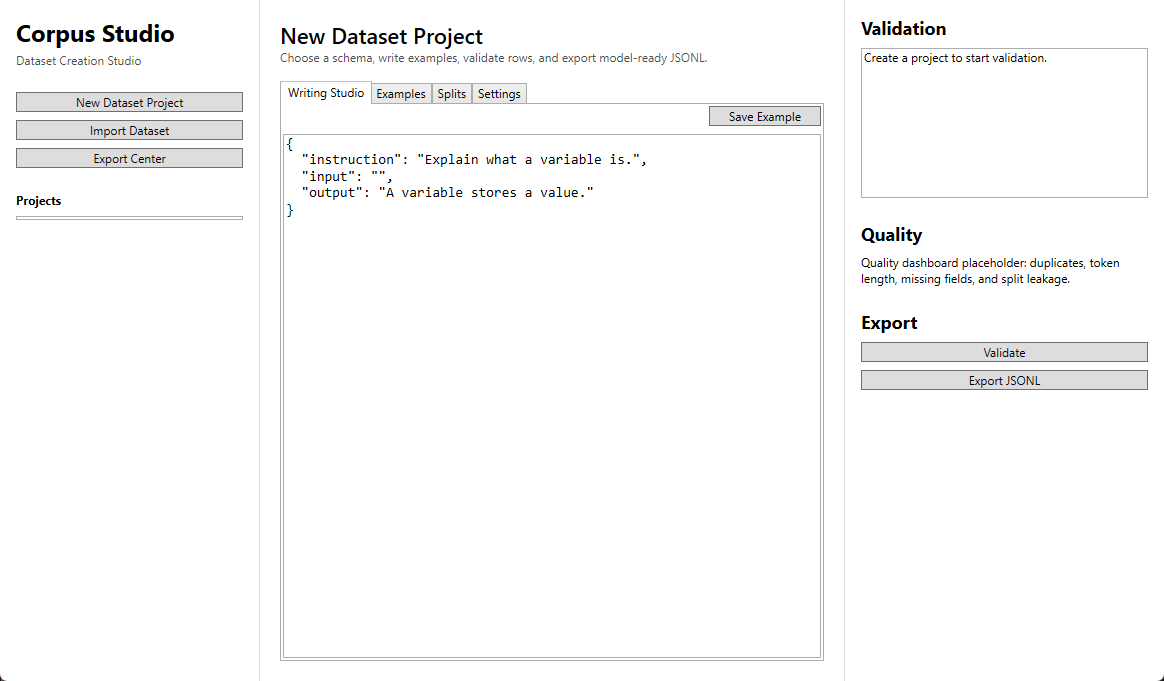
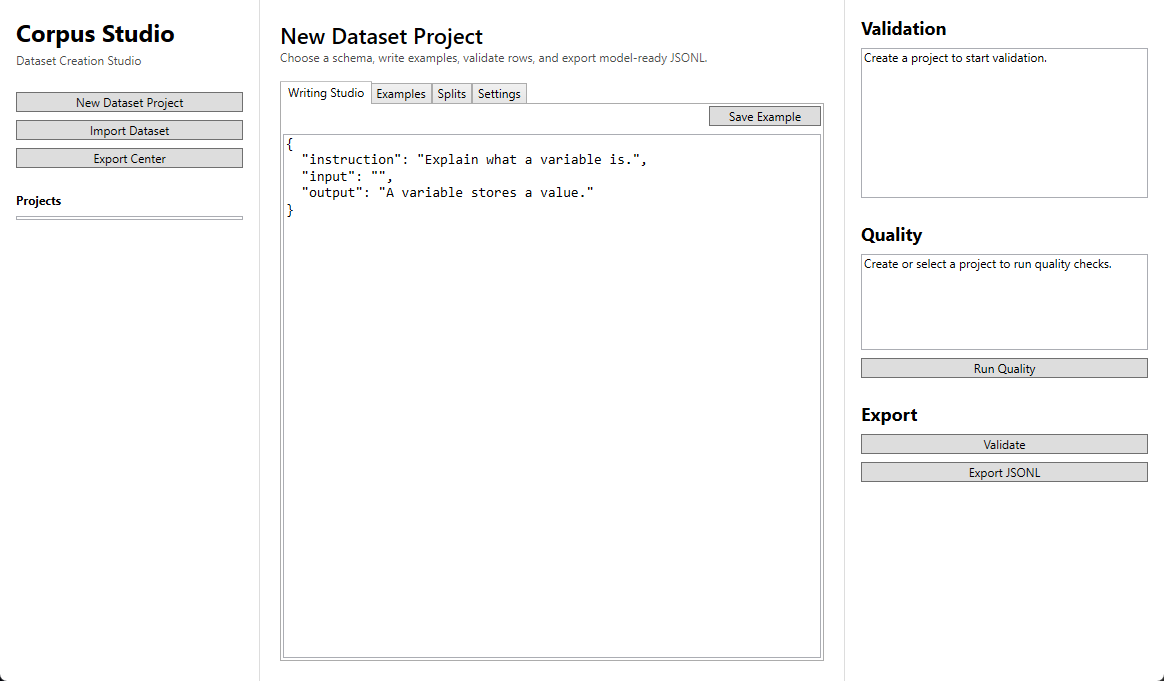
Wire desktop quality checks

Changed region(s): [[0.7423, 0.4626, 0.9897, 0.7093], [0.7423, 0.37, 0.9588, 0.4317]]

diff --git a/apps/desktop/CorpusStudio.Desktop/Views/MainWindow.xaml b/apps/desktop/CorpusStudio.Desktop/Views/MainWindow.xaml
@@ -129,7 +129,17 @@
                          VerticalScrollBarVisibility="Auto" />
 
                 <TextBlock Text="Quality" FontSize="18" FontWeight="Bold" />
-                <TextBlock Text="{Binding QualitySummary}" Margin="0,8,0,24" TextWrapping="Wrap" />
+                <TextBox AutomationProperties.AutomationId="QualitySummaryTextBox"
+                         Text="{Binding QualitySummary, Mode=OneWay}"
+                         Margin="0,8,0,8"
+                         MinHeight="96"
+                         IsReadOnly="True"
+                         TextWrapping="Wrap"
+                         VerticalScrollBarVisibility="Auto" />
+                <Button AutomationProperties.AutomationId="RunQualityButton"
+                        Content="Run Quality"
+                        Margin="0,0,0,24"
+                        Click="RunQualityButton_Click" />
 
                 <TextBlock Text="Export" FontSize="18" FontWeight="Bold" />
                 <Button AutomationProperties.AutomationId="ValidateButton"

diff --git a/apps/desktop/CorpusStudio.Desktop/Views/MainWindow.xaml.cs b/apps/desktop/CorpusStudio.Desktop/Views/MainWindow.xaml.cs
@@ -19,7 +19,7 @@ public partial class MainWindow : Window
 
     private MainWindowViewModel ViewModel => (MainWindowViewModel)DataContext;
 
-    private void MainWindow_Loaded(object sender, RoutedEventArgs e)
+    private async void MainWindow_Loaded(object sender, RoutedEventArgs e)
     {
         var projects = _engineService.LoadProjects();
         ViewModel.SetProjects(projects);
@@ -28,7 +28,7 @@ public partial class MainWindow : Window
         var firstProject = projects.FirstOrDefault();
         if (firstProject is not null)
         {
-            LoadProject(firstProject);
+            await LoadProjectAsync(firstProject);
         }
     }
 
@@ -62,6 +62,7 @@ public partial class MainWindow : Window
                 createdPath
             );
             ViewModel.SetExamples(_engineService.LoadExamples(createdPath));
+            await RefreshQualityAsync();
 
             MessageBox.Show(
                 this,
@@ -146,6 +147,7 @@ public partial class MainWindow : Window
             );
 
             ViewModel.SetExamples(_engineService.LoadExamples(ViewModel.ActiveProjectPath));
+            await RefreshQualityAsync();
             MessageBox.Show(
                 this,
                 $"Saved {savedCount} example(s).",
@@ -162,6 +164,11 @@ public partial class MainWindow : Window
         {
             Mouse.OverrideCursor = null;
         }
+    }
+
+    private async void RunQualityButton_Click(object sender, RoutedEventArgs e)
+    {
+        await RefreshQualityAsync();
     }
 
     private async void ExportJsonlButton_Click(object sender, RoutedEventArgs e)
@@ -204,17 +211,43 @@ public partial class MainWindow : Window
         }
     }
 
-    private void ProjectsListBox_SelectionChanged(object sender, System.Windows.Controls.SelectionChangedEventArgs e)
+    private async void ProjectsListBox_SelectionChanged(object sender, System.Windows.Controls.SelectionChangedEventArgs e)
     {
         if (ViewModel.SelectedProject is not null)
         {
-            LoadProject(ViewModel.SelectedProject);
+            await LoadProjectAsync(ViewModel.SelectedProject);
         }
     }
 
-    private void LoadProject(DatasetProjectListItem project)
+    private async Task LoadProjectAsync(DatasetProjectListItem project)
     {
         ViewModel.SelectProject(project);
         ViewModel.SetExamples(_engineService.LoadExamples(project.ProjectPath));
+        await RefreshQualityAsync();
+    }
+
+    private async Task RefreshQualityAsync()
+    {
+        if (!ViewModel.HasActiveProject || string.IsNullOrWhiteSpace(ViewModel.ActiveProjectPath))
+        {
+            ViewModel.SetQualityError("Create or select a dataset project before running quality checks.");
+            return;
+        }
+
+        try
+        {
+            Mouse.OverrideCursor = Cursors.Wait;
+            ViewModel.SetQualityInProgress();
+            var report = await _engineService.BuildQualityReportAsync(ViewModel.ActiveProjectPath);
+            ViewModel.ApplyQualityReport(report);
+        }
+        catch (Exception ex)
+        {
+            ViewModel.SetQualityError(ex.Message);
+        }
+        finally
+        {
+            Mouse.OverrideCursor = null;
+        }
     }
 }

diff --git a/apps/desktop/CorpusStudio.Desktop/ViewModels/MainWindowViewModel.cs b/apps/desktop/CorpusStudio.Desktop/ViewModels/MainWindowViewModel.cs
@@ -14,8 +14,7 @@ public sealed class MainWindowViewModel : INotifyPropertyChanged
     private string _activeSchemaDescription =
         "Choose a schema, write examples, validate rows, and export model-ready JSONL.";
     private string _validationSummary = "Create a project to start validation.";
-    private string _qualitySummary =
-        "Quality dashboard placeholder: duplicates, token length, missing fields, and split leakage.";
+    private string _qualitySummary = "Create or select a project to run quality checks.";
     private string _settingsSummary = "Settings load when the app starts.";
     private DatasetProjectListItem? _selectedProject;
     private SavedExampleItem? _selectedExample;
@@ -180,8 +179,35 @@ public sealed class MainWindowViewModel : INotifyPropertyChanged
         SelectedExampleJson = SelectedExample?.Json
             ?? "No saved examples yet. Save a valid draft from Writing Studio.";
         QualitySummary = Examples.Count == 0
-            ? "No saved examples yet. Quality checks will appear after examples are added."
-            : $"{Examples.Count} saved example(s). Quality checks will appear here next.";
+            ? "No saved examples yet. Quality checks will run after examples are added."
+            : $"{Examples.Count} saved example(s). Run quality checks to inspect duplicates and empty rows.";
+    }
+
+    public void SetQualityInProgress()
+    {
+        QualitySummary = "Running quality checks...";
+    }
+
+    public void ApplyQualityReport(QualityReport report)
+    {
+        var health = report.EmptyRowCount == 0 && report.DuplicateExactCount == 0
+            ? "No basic quality issues found."
+            : "Review the flagged rows before export.";
+
+        QualitySummary = string.Join(
+            Environment.NewLine,
+            [
+                $"Examples: {report.ExampleCount}",
+                $"Empty rows: {report.EmptyRowCount}",
+                $"Exact duplicates: {report.DuplicateExactCount}",
+                $"Status: {health}",
+            ]
+        );
+    }
+
+    public void SetQualityError(string message)
+    {
+        QualitySummary = $"Quality checks could not run.{Environment.NewLine}{message}";
     }
 
     public void SetValidationInProgress()

diff --git a/apps/desktop/CorpusStudio.Desktop/Models/QualityReport.cs b/apps/desktop/CorpusStudio.Desktop/Models/QualityReport.cs
@@ -1,0 +1,15 @@
+using System.Text.Json.Serialization;
+
+namespace CorpusStudio.Desktop.Models;
+
+public sealed class QualityReport
+{
+    [JsonPropertyName("example_count")]
+    public int ExampleCount { get; init; }
+
+    [JsonPropertyName("empty_row_count")]
+    public int EmptyRowCount { get; init; }
+
+    [JsonPropertyName("duplicate_exact_count")]
+    public int DuplicateExactCount { get; init; }
+}

diff --git a/apps/desktop/CorpusStudio.Desktop/Services/PythonEngineService.cs b/apps/desktop/CorpusStudio.Desktop/Services/PythonEngineService.cs
@@ -116,6 +116,19 @@ public sealed class PythonEngineService
         return RunEngineCommandAsync("validate", datasetPath, schemaId);
     }
 
+    public async Task<QualityReport> BuildQualityReportAsync(string projectPath)
+    {
+        var examplesPath = Path.Combine(projectPath, "examples.jsonl");
+        if (!File.Exists(examplesPath))
+        {
+            throw new FileNotFoundException("Project examples file was not found.", examplesPath);
+        }
+
+        var output = await RunEngineCommandAsync("quality", examplesPath);
+        return JsonSerializer.Deserialize<QualityReport>(output, JsonOptions)
+            ?? throw new InvalidOperationException("The Python engine returned an invalid quality report.");
+    }
+
     public async Task<ValidationReport> ValidateDraftAsync(string draftText, string schemaId)
     {
         var tempPath = WriteDraftToTempJsonl(draftText);

diff --git a/docs/PRODUCT_SPEC.md b/docs/PRODUCT_SPEC.md
@@ -88,10 +88,11 @@ The current app proves the smallest local dataset-authoring loop:
 4. Edit the generated JSON example in Writing Studio.
 5. Validate the draft through the Python engine.
 6. Save the example to the active project's `examples.jsonl`.
-7. Inspect saved example details from the Examples tab.
-8. Reopen an existing project from the project list.
-9. Export validated JSONL to `exports/<project_id>/export.jsonl`.
-10. Inspect local repository, engine, Python, project, and export paths from Settings.
+7. Run basic quality checks against the active project's saved examples.
+8. Inspect saved example details from the Examples tab.
+9. Reopen an existing project from the project list.
+10. Export validated JSONL to `exports/<project_id>/export.jsonl`.
+11. Inspect local repository, engine, Python, project, and export paths from Settings.
 
 The Python engine also exposes schema listing, validation, project creation, quality reporting, splitting, and export commands for developer workflows.
 
@@ -100,7 +101,8 @@ The Python engine also exposes schema listing, validation, project creation, qua
 - Project data is file-backed JSON and JSONL.
 - The desktop app writes one JSON object per saved example.
 - Validation currently enforces JSON validity plus required non-empty fields.
-- The Quality and Splits desktop tabs are placeholders for future richer workflows.
+- Quality checks currently report example count, empty rows, and exact duplicates.
+- The Splits desktop tab is a placeholder for a future richer workflow.
 - SQLite remains planned for durable project state beyond the v0.1 file-backed loop.
 
 ## Product principles

diff --git a/docs/DEVELOPMENT_SETUP.md b/docs/DEVELOPMENT_SETUP.md
@@ -77,8 +77,9 @@ Use this checklist after a build:
 5. In **Writing Studio**, keep or edit the generated JSON example.
 6. Click **Validate** and confirm the validation panel reports a valid row.
 7. Click **Save Example** and confirm the row is appended to the active project.
-8. Click **Export JSONL** and confirm an export appears under `exports/<project_id>/export.jsonl`.
-9. Open **Settings** and confirm the repository, engine, Python, project, and export paths point to this checkout.
+8. Click **Run Quality** and confirm the quality panel reports the saved example count.
+9. Click **Export JSONL** and confirm an export appears under `exports/<project_id>/export.jsonl`.
+10. Open **Settings** and confirm the repository, engine, Python, project, and export paths point to this checkout.
 
 Or run the automated Windows desktop smoke test:
 

diff --git a/MANIFEST.md b/MANIFEST.md
@@ -19,7 +19,10 @@ Generated file list for the Corpus Studio MIT project skeleton.
 - `apps/desktop/CorpusStudio.Desktop/App.xaml.cs`
 - `apps/desktop/CorpusStudio.Desktop/CorpusStudio.Desktop.csproj`
 - `apps/desktop/CorpusStudio.Desktop/Models/DatasetProject.cs`
+- `apps/desktop/CorpusStudio.Desktop/Models/DatasetProjectListItem.cs`
 - `apps/desktop/CorpusStudio.Desktop/Models/DatasetSchema.cs`
+- `apps/desktop/CorpusStudio.Desktop/Models/QualityReport.cs`
+- `apps/desktop/CorpusStudio.Desktop/Models/SavedExampleItem.cs`
 - `apps/desktop/CorpusStudio.Desktop/Services/PythonEngineService.cs`
 - `apps/desktop/CorpusStudio.Desktop/ViewModels/MainWindowViewModel.cs`
 - `apps/desktop/CorpusStudio.Desktop/Views/MainWindow.xaml`

diff --git a/apps/desktop/README.md b/apps/desktop/README.md
@@ -10,6 +10,7 @@ The current v0.1 workflow supports:
 - JSON example authoring
 - Python-engine validation
 - saving examples to the active project
+- basic quality checks
 - saved example inspection
 - project reopening from the project list
 - JSONL export
@@ -22,4 +23,4 @@ dotnet build apps\desktop\CorpusStudio.Desktop.sln
 .\apps\desktop\CorpusStudio.Desktop\bin\Debug\net8.0-windows\CorpusStudio.Desktop.exe
 ```
 
-Quality and split management are still represented as early UI surfaces while the engine commands mature into full desktop workflows.
+Split management is still represented as an early UI surface while the engine command matures into a full desktop workflow.

diff --git a/TASKS.md b/TASKS.md
@@ -41,7 +41,7 @@
 ## v0.2 desktop
 
 - [x] Show saved example details in the Examples tab.
-- [ ] Expose quality checks in the desktop app.
+- [x] Expose quality checks in the desktop app.
 - [ ] Add split generation to the desktop app.
 - [ ] Make validation stricter for schema field types.
 - [ ] Add import preview and failed-row reporting.